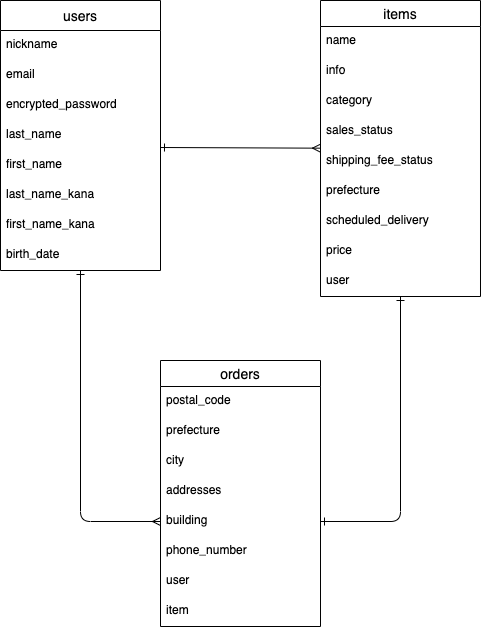
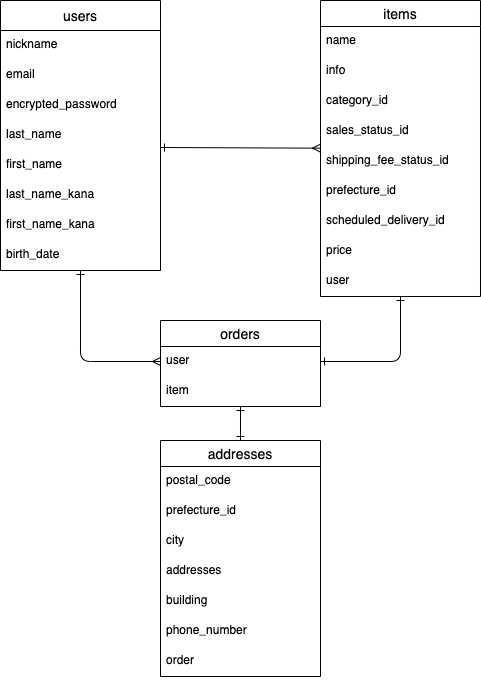
ER図、READEMEの修正1

Changed region(s): [[0.1559, 0.0, 1.0, 0.9349], [0.0, 0.0, 0.343, 0.4222], [0.3119, 0.9651, 0.6861, 1.0]]

diff --git a/README.md b/README.md
@@ -20,17 +20,17 @@
 
 ## items テーブル
 
-| Column              | Type       | Options                        |
-| ------------------- | ---------- | ------------------------------ |
-| name                | text       | null: false                    |
-| info                | text       | null: false                    |
-| category            | integer    | null: false                    |
-| sales_status        | integer    | null: false                    |
-| shipping_fee_status | integer    | null: false                    |
-| prefecture          | integer    | null: false                    |
-| scheduled_delivery  | integer    | null: false                    |
-| price               | integer    | null: false                    |
-| user                | references | null: false, foreign_key: true |
+| Column                 | Type       | Options                        |
+| ---------------------- | ---------- | ------------------------------ |
+| name                   | string     | null: false                    |
+| info                   | text       | null: false                    |
+| category_id            | integer    | null: false                    |
+| sales_status_id        | integer    | null: false                    |
+| shipping_fee_status_id | integer    | null: false                    |
+| prefecture_id          | integer    | null: false                    |
+| scheduled_delivery_id  | integer    | null: false                    |
+| price                  | integer    | null: false                    |
+| user                   | references | null: false, foreign_key: true |
 
 ### Association
 
@@ -39,18 +39,29 @@
 
 ## orders テーブル
 
-| Column       | Type       | Options                        |
-| ------------ | ---------- | ------------------------------ |
-| postal_code  | string     | null: false                    |
-| prefecture   | integer    | null: false                    |
-| city         | string     | null: false                    |
-| addresses    | string     | null: false                    |
-| building     | string     |                                |
-| phone_number | string     | null: false                    |
-| user         | references | null: false, foreign_key: true |
-| item         | references | null: false, foreign_key: true |
+| Column | Type       | Options                        |
+| ------ | ---------- | ------------------------------ |
+| user   | references | null: false, foreign_key: true |
+| item   | references | null: false, foreign_key: true |
 
 ### Association
 
 - belongs_to :user
 - belongs_to :item
+- has_one :address
+
+## addresses テーブル
+
+| Column        | Type       | Options                        |
+| ------------- | ---------- | ------------------------------ |
+| postal_code   | string     | null: false                    |
+| prefecture_id | integer    | null: false                    |
+| city          | string     | null: false                    |
+| addresses     | string     | null: false                    |
+| building      | string     |                                |
+| phone_number  | string     | null: false                    |
+| order         | references | null: false, foreign_key: true |
+
+### Association
+
+- belongs_to :order
